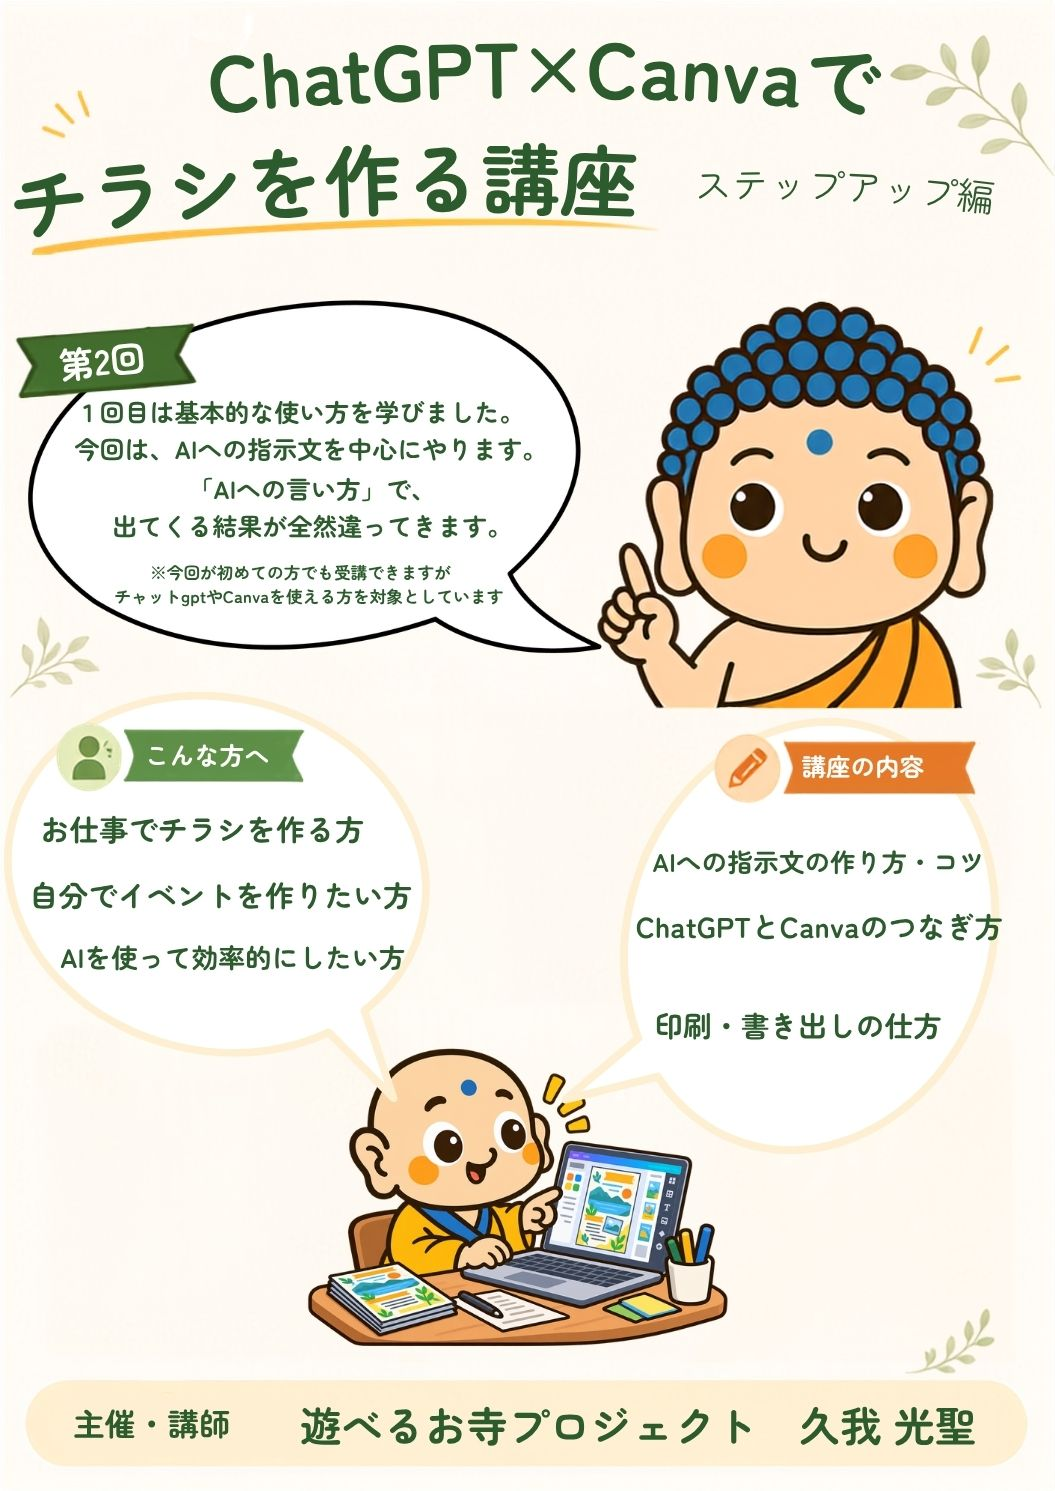
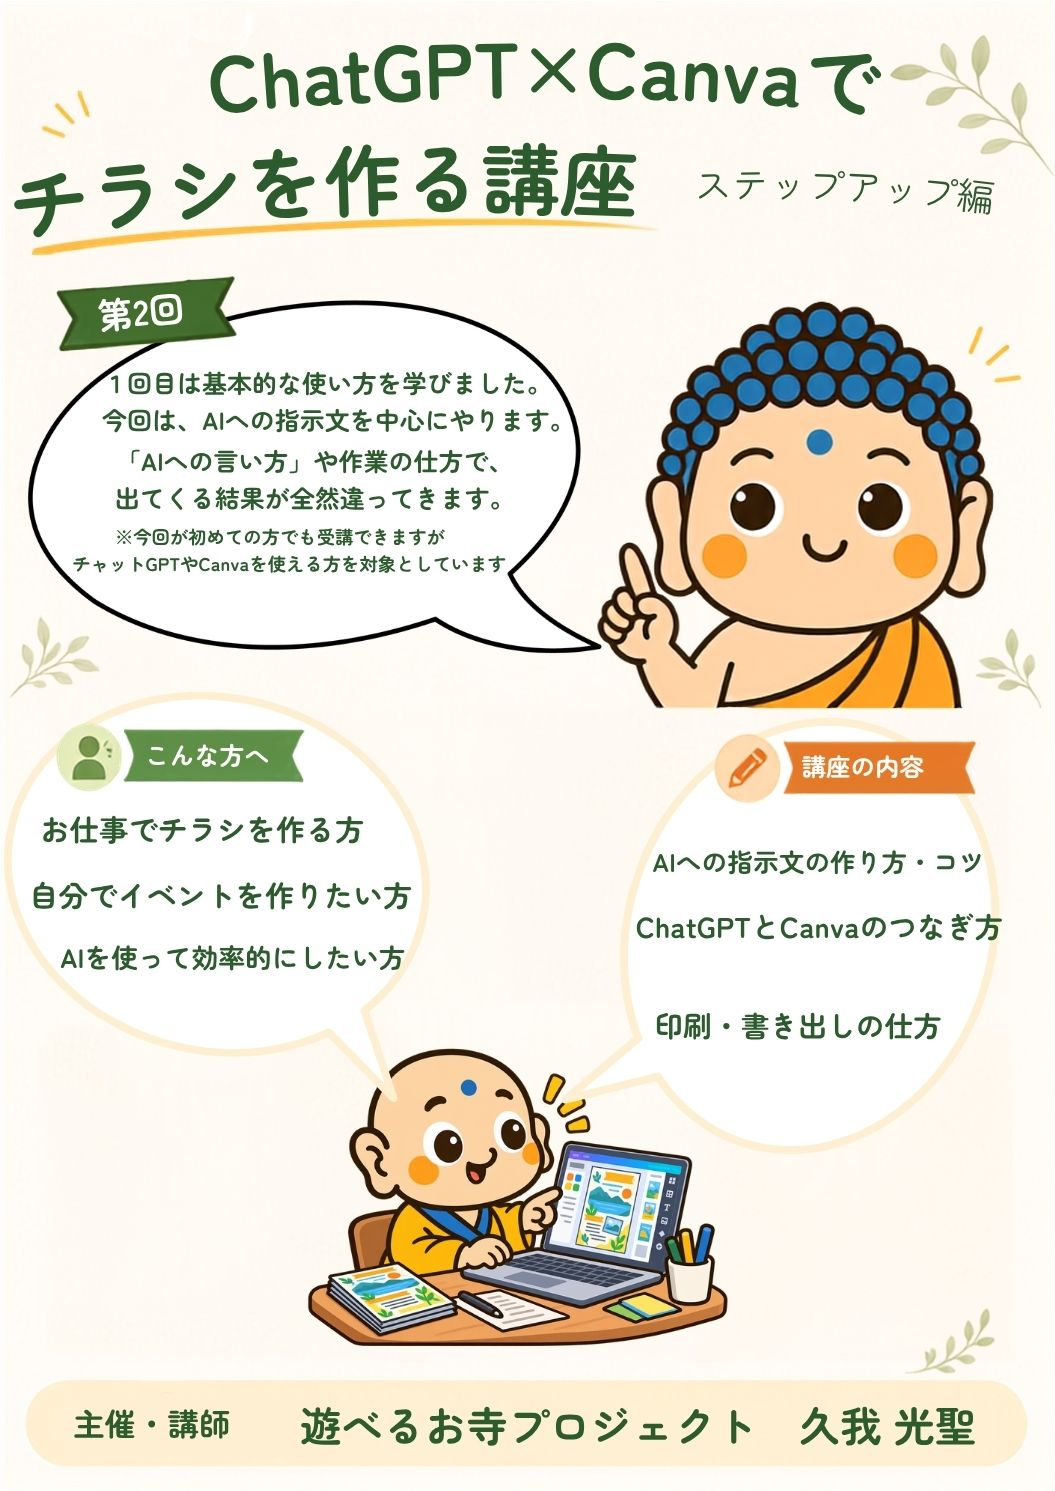
講座ページを10月分に更新：10/16公式LINE講座と10/23チラシ作り講座を次回の予定に追加、10/9の行を削除、チラシ講座の画像を日付なしの版に差し替え

Changed region(s): [[0.0, 0.1851, 0.5156, 0.4011]]

diff --git a/seminar/index.html b/seminar/index.html
@@ -509,11 +509,11 @@
             </thead>
             <tbody>
               <tr>
-                <td class="nt-date" data-label="日時">2026年10月9日（金）<br>13:00〜15:00</td>
-                <td class="nt-name" data-label="講座"><a href="#mahjong-course">みんなの健康麻雀講座（午後）</a></td>
+                <td class="nt-date" data-label="日時">2026年10月16日（金）<br>19:00〜21:00</td>
+                <td class="nt-name" data-label="講座"><a href="#line-course">公式LINE 基本講座</a></td>
                 <td data-label="会場">コミュニティサロン Wan</td>
-                <td data-label="参加費">500円（当日払い）</td>
-                <td data-label="申込">公式LINE・InstagramのDM／定員8名</td>
+                <td data-label="参加費">2,000円（当日払い）</td>
+                <td data-label="申込">公式LINE・InstagramのDM／定員4名</td>
               </tr>
               <tr>
                 <td class="nt-date" data-label="日時">2026年10月23日（金）<br>13:00〜15:00</td>
@@ -521,6 +521,13 @@
                 <td data-label="会場">コミュニティサロン Wan</td>
                 <td data-label="参加費">500円（当日払い）</td>
                 <td data-label="申込">公式LINE・InstagramのDM／定員8名</td>
+              </tr>
+              <tr>
+                <td class="nt-date" data-label="日時">2026年10月23日（金）<br>19:00〜21:00</td>
+                <td class="nt-name" data-label="講座"><a href="#flyer-course">チラシ作り講座（ステップアップ編）</a></td>
+                <td data-label="会場">コミュニティサロン Wan</td>
+                <td data-label="参加費">2,000円（当日払い）</td>
+                <td data-label="申込">公式LINE・InstagramのDM／定員4名</td>
               </tr>
             </tbody>
           </table>
@@ -595,10 +602,10 @@
             </div>
 
             <div class="event-body">
-              <h3>公式LINE 基本講座 <span class="badge">次回は調整中</span></h3>
+              <h3>公式LINE 基本講座 <span class="badge important">次回 10月16日</span></h3>
 
               <dl class="course-meta">
-                <dt>日程</dt><dd>次回は調整中です（ご希望があれば公式LINEでお知らせください）</dd>
+                <dt>日程</dt><dd>2026年10月16日（金）19:00〜21:00</dd>
                 <dt>会場</dt><dd>コミュニティサロン Wan（高島市安曇川町南船木301-1）</dd>
                 <dt>参加費</dt><dd>2,000円（当日払い）</dd>
                 <dt>定員</dt><dd>4名</dd>
@@ -691,10 +698,10 @@
             </div>
 
             <div class="event-body">
-              <h3>小さな活動を伝える チラシ作り講座 <span class="badge">次回は調整中</span></h3>
+              <h3>小さな活動を伝える チラシ作り講座 <span class="badge important">次回 10月23日</span></h3>
 
               <dl class="course-meta">
-                <dt>日程</dt><dd>次回は調整中です</dd>
+                <dt>日程</dt><dd>2026年10月23日（金）19:00〜21:00<br>（ステップアップ編：ChatGPTやCanvaを使える方向け。初めての方も受講できます）<br>このあとは、ご希望があれば開催します</dd>
                 <dt>会場</dt><dd>コミュニティサロン Wan</dd>
                 <dt>参加費</dt><dd>2,000円（当日払い）</dd>
                 <dt>定員</dt><dd>4名</dd>
@@ -722,7 +729,7 @@
               </div>
 
               <p class="line-note">
-                公式LINEで「チラシ講座」とお送りください。
+                公式LINEで「チラシ講座」とお送りください。InstagramのDMでも受け付けています。
               </p>
             </div>
           </div>
@@ -739,10 +746,10 @@
             </div>
 
             <div class="event-body">
-              <h3>みんなの健康麻雀講座 <span class="badge important">午後の回 10月9日から</span></h3>
+              <h3>みんなの健康麻雀講座 <span class="badge important">午後の回 次回10月23日</span></h3>
 
               <dl class="course-meta">
-                <dt>午後の回</dt><dd>2026年10月9日（金）・10月23日（金）13:00〜15:00</dd>
+                <dt>午後の回</dt><dd>2026年10月23日（金）13:00〜15:00</dd>
                 <dt>午前の回</dt><dd>毎月 第2・第4金曜日 10:00〜12:00（公民館講座から続けて受けている方）</dd>
                 <dt>会場</dt><dd>コミュニティサロン Wan（高島市安曇川町南船木301-1）</dd>
                 <dt>参加費</dt><dd>各回500円（当日払い）</dd>
@@ -757,10 +764,11 @@
               </p>
 
               <div class="course-history">
-                <p class="course-history-title">これまでの開催（Wan・午前の回）</p>
+                <p class="course-history-title">これまでの開催（Wan）</p>
                 <ul>
-                  <li>2026年9月25日（金）</li>
-                  <li>2026年9月11日（金）</li>
+                  <li>2026年10月9日（金）午前の回・午後の回</li>
+                  <li>2026年9月25日（金）午前の回</li>
+                  <li>2026年9月11日（金）午前の回</li>
                 </ul>
               </div>
 
